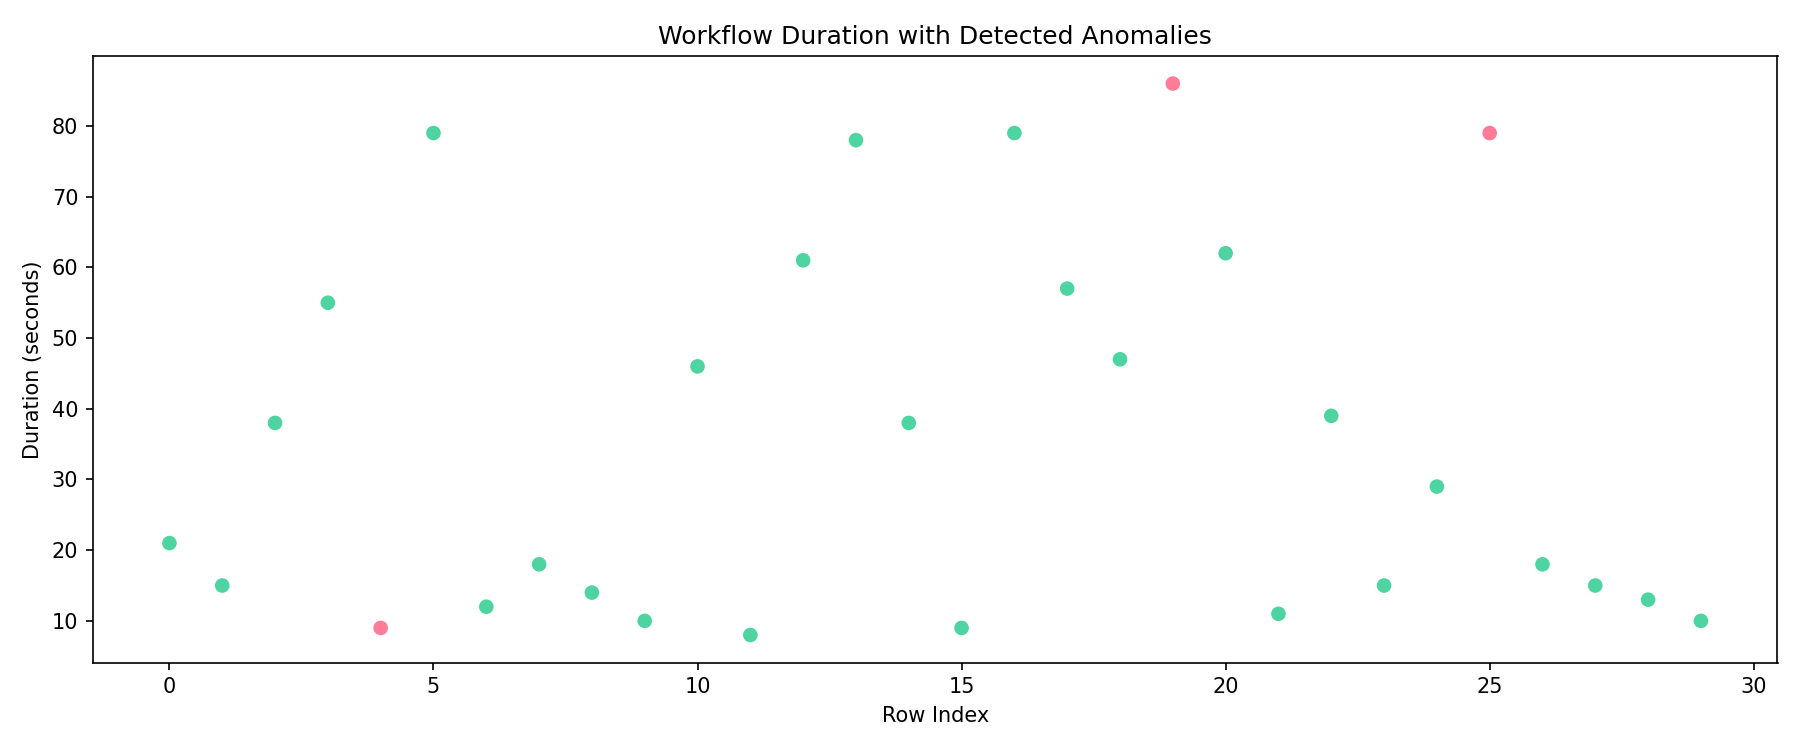
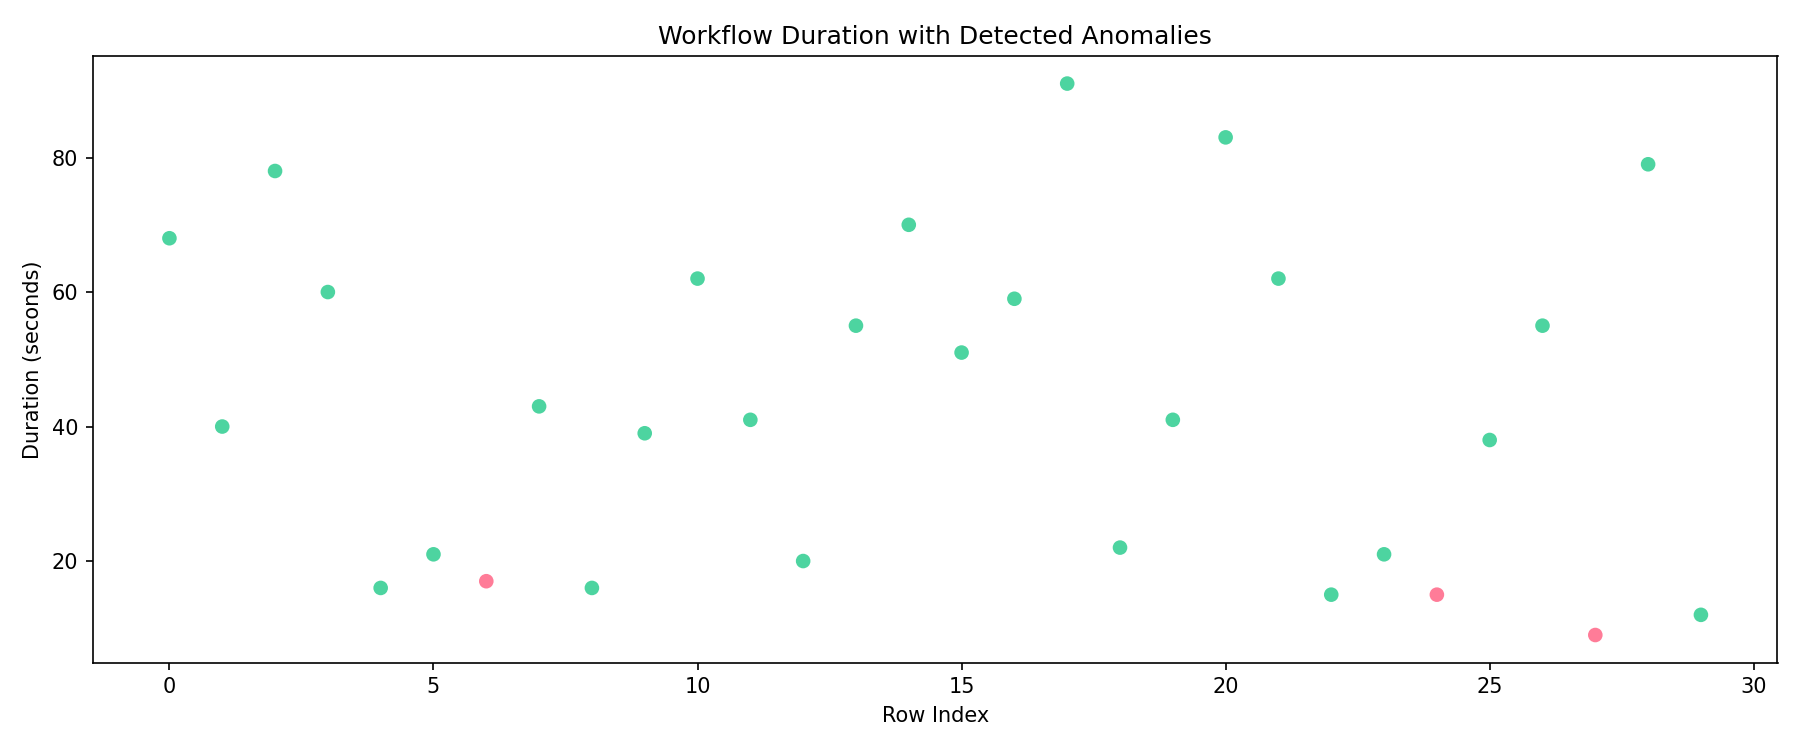
Fix misleading error message: distinguish 401 (bad secret) from 429 (rate limited)

diff --git a/app/templates/dashboard.html b/app/templates/dashboard.html
@@ -114,12 +114,15 @@ async function refreshData() {
     });
     if (response.ok) {
         location.reload();
-    } else {
+    } else if (response.status === 401) {
         sessionStorage.removeItem('refresh_secret');
         alert("Secret incorrect. Réessaie.");
+    } else if (response.status === 429) {
+        alert("Trop de tentatives récentes (limite : 20/heure). Attends un peu avant de réessayer.");
+    } else {
+        alert("Erreur serveur (" + response.status + "). Vérifie les logs Render.");
     }
-}
-</script>
+}}</script>
 <a href="/security" style="background:#ff7c98; color:#0b0d12; padding:10px 20px; border-radius:8px; text-decoration:none; font-weight:bold; font-size:14px; margin-left:10px;">
     🛡 Security Dashboard
   </a>

diff --git a/app/main.py b/app/main.py
@@ -80,7 +80,7 @@ def simulate():
         "timestamp": datetime.utcnow().isoformat()
     })
 @app.post("/refresh")
-@limiter.limit("5 per hour")
+@limiter.limit("20 per hour")
 def refresh():
     provided_secret = request.headers.get("X-Refresh-Secret", "")
     expected_secret = os.getenv("REFRESH_SECRET", "")
